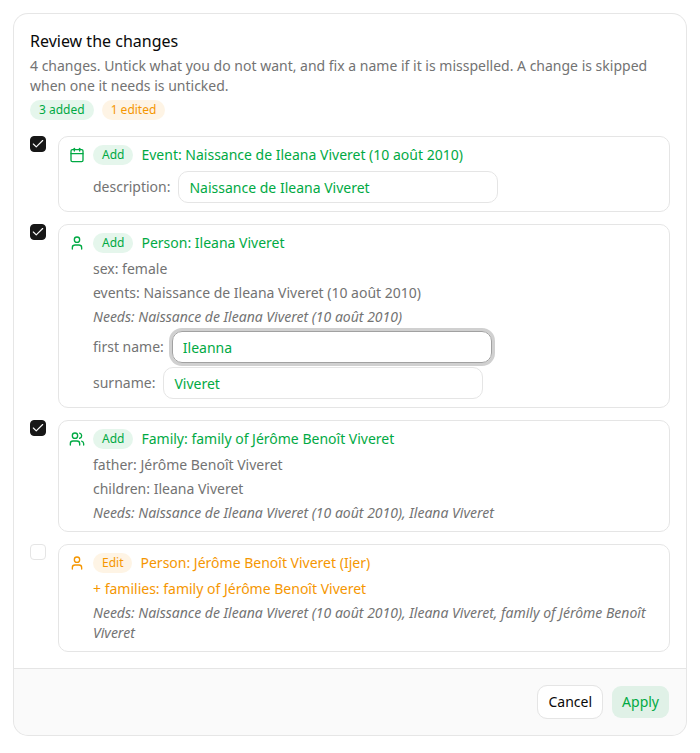
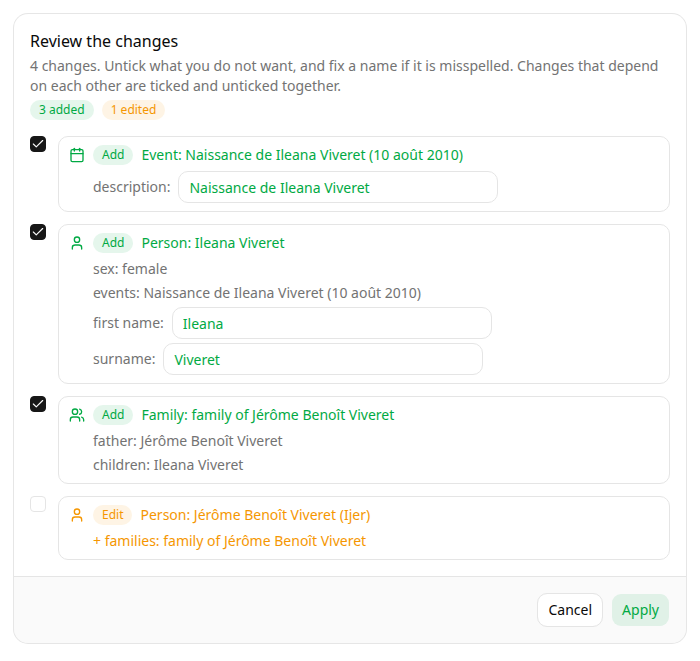
Make the card's boxes follow their dependencies, and write each box's own value
Unticking a change unticks every change that needs it and ticking one ticks
every change it needs, as one set of actions per box. When a Prefab Checkbox
has an on_change it no longer writes its own value to the state, so the box
and the state drift apart; the first action of each handler writes it. The
Needs and Skipped notes are gone.

Changed region(s): [[0.03, 0.0303, 0.96, 0.8472], [0.87, 0.8775, 0.96, 0.9682], [0.78, 0.9077, 0.84, 0.938]]

diff --git a/src/gramps_mcp/ui.py b/src/gramps_mcp/ui.py
@@ -145,28 +145,19 @@ def _detail(detail: Detail) -> None:
 def _change(
     view: ChangeView,
     *,
-    effective: Any = None,
-    blocked: Any = None,
+    index: int | None = None,
     fields: list[EditField] | None = None,
-    needs: list[str] | None = None,
 ) -> None:
     with Alert(variant=OP_VARIANTS[view.op], icon=TYPE_ICONS.get(view.type, "file")):
         with Row(gap=2, align="center"):
             Badge(OP_VERBS[view.op], variant=OP_VARIANTS[view.op])
             AlertTitle(f"{view.noun.capitalize()}: {view.title}")
-        if view.details or fields or needs:
+        if view.details or fields:
             with Column(gap=1, css_class="mt-1"):
                 for detail in view.details:
                     _detail(detail)
-                if needs:
-                    Muted("Needs: " + ", ".join(needs), css_class="text-sm italic")
-                    with If(blocked):
-                        Text(
-                            "Skipped: a change it needs is unticked.",
-                            css_class="text-sm font-medium",
-                        )
-                if fields and effective is not None:
-                    with If(effective):
+                if fields and index is not None:
+                    with If(getattr(STATE, f"s{index}")):
                         for edit in fields:
                             with Row(gap=2, align="center", css_class="text-sm"):
                                 Muted(f"{edit.label}:")
@@ -209,27 +200,22 @@ def _ref(name: str) -> str:
     return "{{ " + name + " }}"
 
 
-def _effective(i: int, requires: list[set[int]]) -> Any:
-    """Whether change `i` will be applied: its own box and the boxes of every
-    change it needs are ticked. Nothing is written back to the boxes, so the
-    user's own choices are kept and ticking a change again restores what it
-    needed."""
-    expr = getattr(STATE, f"s{i}")
-    for p in sorted(requires[i]):
-        expr = expr & getattr(STATE, f"s{p}")
-    return expr
+def _cascade(
+    i: int, requires: list[set[int]], required_by: list[set[int]]
+) -> list[Any]:
+    """What clicking box `i` does. `$event` is its new state.
 
-
-def _blocked(i: int, requires: list[set[int]]) -> Any:
-    """Ticked, yet skipped because a change it needs is not."""
-    needed = getattr(STATE, f"s{sorted(requires[i])[0]}") if requires[i] else None
-    for p in sorted(requires[i])[1:]:
-        needed = needed & getattr(STATE, f"s{p}")
-    return getattr(STATE, f"s{i}") & ~needed if needed is not None else None
-
-
-def _effective_ref(i: int, requires: list[set[int]]) -> str:
-    return _ref(" && ".join(f"s{n}" for n in [i, *sorted(requires[i])]))
+    First the box's own value is written to the state: when a Checkbox has an
+    `on_change`, Prefab no longer does it, and the box and the state drift
+    apart. Then unticking it unticks every change that needs it and ticking it
+    ticks every change it needs. Setting a box from an action does not fire that
+    box's own handler, so the sets are the whole transitive closure."""
+    actions: list[Any] = [SetState(f"s{i}", _ref("$event"))]
+    actions += [
+        SetState(f"s{d}", _ref(f"s{d} && $event")) for d in sorted(required_by[i])
+    ]
+    actions += [SetState(f"s{p}", _ref(f"s{p} || $event")) for p in sorted(requires[i])]
+    return actions
 
 
 def build_interactive(planned: list[Planned], token: str) -> PrefabApp:
@@ -249,7 +235,7 @@ def build_interactive(planned: list[Planned], token: str) -> PrefabApp:
         CONFIRM_TOOL,
         arguments={
             "token": token,
-            "selection": {str(i): _effective_ref(i, requires) for i in range(total)},
+            "selection": {str(i): _ref(f"s{i}") for i in range(total)},
             "edits": {f.key: _ref(f.key) for f in fields},
         },
         on_success=[
@@ -271,19 +257,22 @@ def build_interactive(planned: list[Planned], token: str) -> PrefabApp:
             views,
             "Review the changes",
             f"{total} change{plural}. Untick what you do not want, and fix a name "
-            "if it is misspelled. A change is skipped when one it needs is unticked.",
+            "if it is misspelled. Changes that depend on each other are ticked and "
+            "unticked together.",
         )
         with CardContent(), Column(gap=3):
             for i, change in enumerate(views):
                 with Row(gap=3, align="start"):
-                    Checkbox(name=f"s{i}", value=True)
+                    Checkbox(
+                        name=f"s{i}",
+                        value=True,
+                        on_change=_cascade(i, requires, required_by),  # type: ignore[call-arg]
+                    )
                     with Column(css_class="flex-1"):
                         _change(
                             change,
-                            effective=_effective(i, requires),
-                            blocked=_blocked(i, requires),
+                            index=i,
                             fields=[f for f in fields if f.op == i],
-                            needs=[views[p].title for p in sorted(requires[i])],
                         )
         with CardFooter():
             with If(STATE.done):

diff --git a/tests/test_interactive.py b/tests/test_interactive.py
@@ -159,14 +159,41 @@ async def test_the_card_has_a_box_per_change_and_edit_fields(monkeypatch):
     assert len(find(card, "type", "Checkbox")) == 4
     assert len(find(card, "type", "Input")) == 3
     _, arguments = button_call(card)
-    # a change is sent as selected only if the changes it needs are too
-    assert arguments["selection"] == {
-        "0": "{{ s0 }}",
-        "1": "{{ s1 && s0 }}",
-        "2": "{{ s2 && s0 && s1 }}",
-        "3": "{{ s3 && s0 && s1 && s2 }}",
+    assert arguments["selection"] == {str(i): f"{{{{ s{i} }}}}" for i in range(4)}
+    texts = [
+        n["content"] for n in find(card, "content") if isinstance(n["content"], str)
+    ]
+    assert not any(t.startswith(("Needs", "Skipped")) for t in texts)
+
+
+async def test_boxes_follow_each_other_through_their_dependencies(monkeypatch):
+    _, server = make(monkeypatch)
+    card = (await show_card(server)).structured_content
+    boxes = find(card, "type", "Checkbox")
+
+    def sets(box: dict[str, Any]) -> dict[str, str]:
+        return {a["key"]: a["value"] for a in box["onChange"]}
+
+    # each box first writes its own value (Prefab does not once there is an
+    # on_change), then unticking unticks what needs it, ticking ticks what it needs
+    assert sets(boxes[0]) == {
+        "s0": "{{ $event }}",
+        "s1": "{{ s1 && $event }}",
+        "s2": "{{ s2 && $event }}",
+        "s3": "{{ s3 && $event }}",
     }
-    assert "Naissance d'Ileana" in json.dumps(card)  # it names what is needed
+    assert sets(boxes[1]) == {
+        "s1": "{{ $event }}",
+        "s2": "{{ s2 && $event }}",
+        "s3": "{{ s3 && $event }}",
+        "s0": "{{ s0 || $event }}",
+    }
+    assert sets(boxes[3]) == {
+        "s3": "{{ $event }}",
+        "s0": "{{ s0 || $event }}",
+        "s1": "{{ s1 || $event }}",
+        "s2": "{{ s2 || $event }}",
+    }
 
 
 async def test_without_the_extension_it_asks_like_before(monkeypatch):

diff --git a/docs/reference/tools.md b/docs/reference/tools.md
@@ -149,12 +149,13 @@ clients that render MCP Apps, instead of asking for a confirmation:
 
 ![The card of apply_changes: boxes, a name being fixed, buttons](../assets/interactive-card.png)
 
-- **Tick or untick** each change. A change is applied only if the changes it
-  needs are ticked too: the person that cites a created event, the family that
-  cites the created person, the father's edit that adds the family. Unticking
-  one marks what depends on it "Skipped" at once, keeping the user's own boxes,
-  so ticking it again brings them back.
-![The first change is unticked, so the three that need it are skipped](../assets/interactive-card-skipped.png)
+- **Tick or untick** each change. Changes that depend on each other follow
+  each other: the person that cites a created event, the family that cites the
+  created person, the father's edit that adds the family. Unticking a change
+  unticks every change that needs it, and ticking a change ticks every change it
+  needs. Ticking a prerequisite again does not tick what depended on it back.
+
+![The event is unticked, so everything that needs it is unticked too](../assets/interactive-card-cascade.png)
 
 - **Fix a name** before applying: a first name, surname, event description,
   place name, note text, title. Only these text fields of a created object, or
